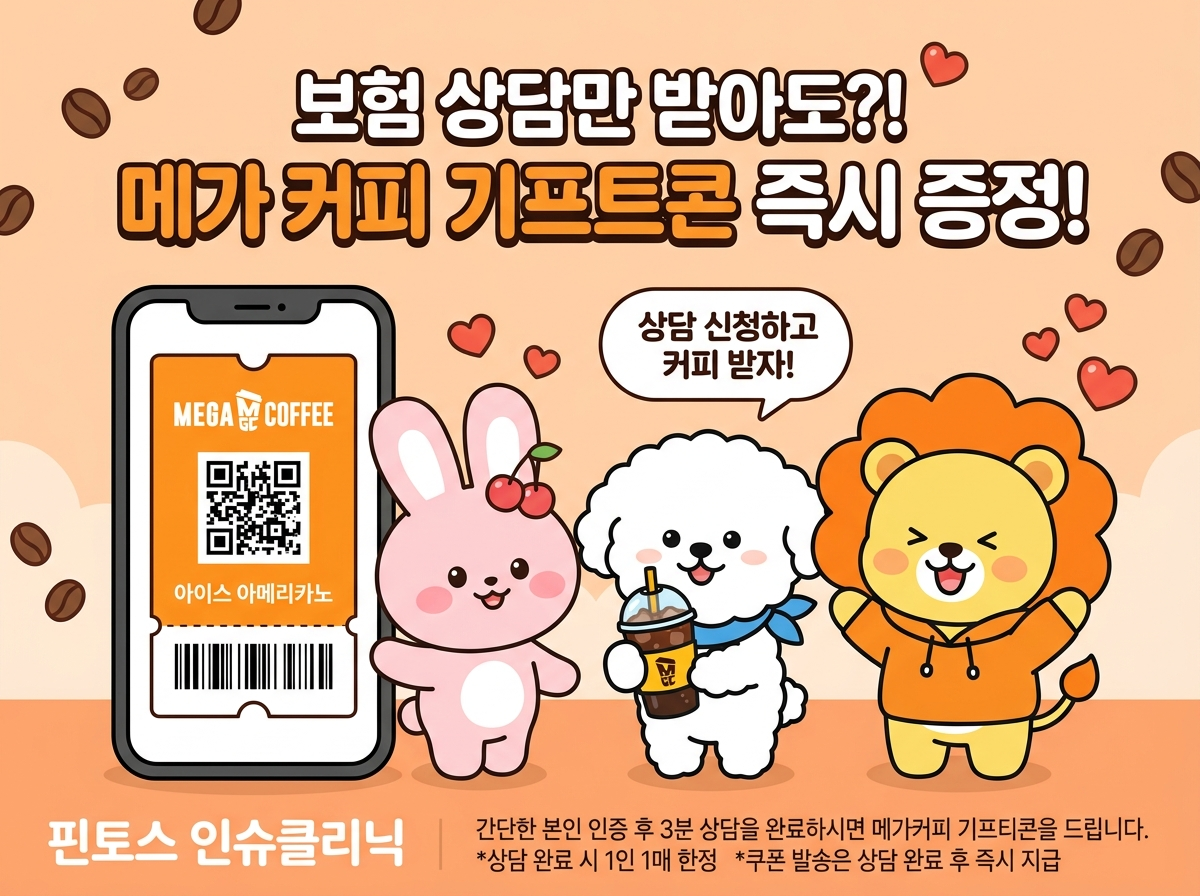
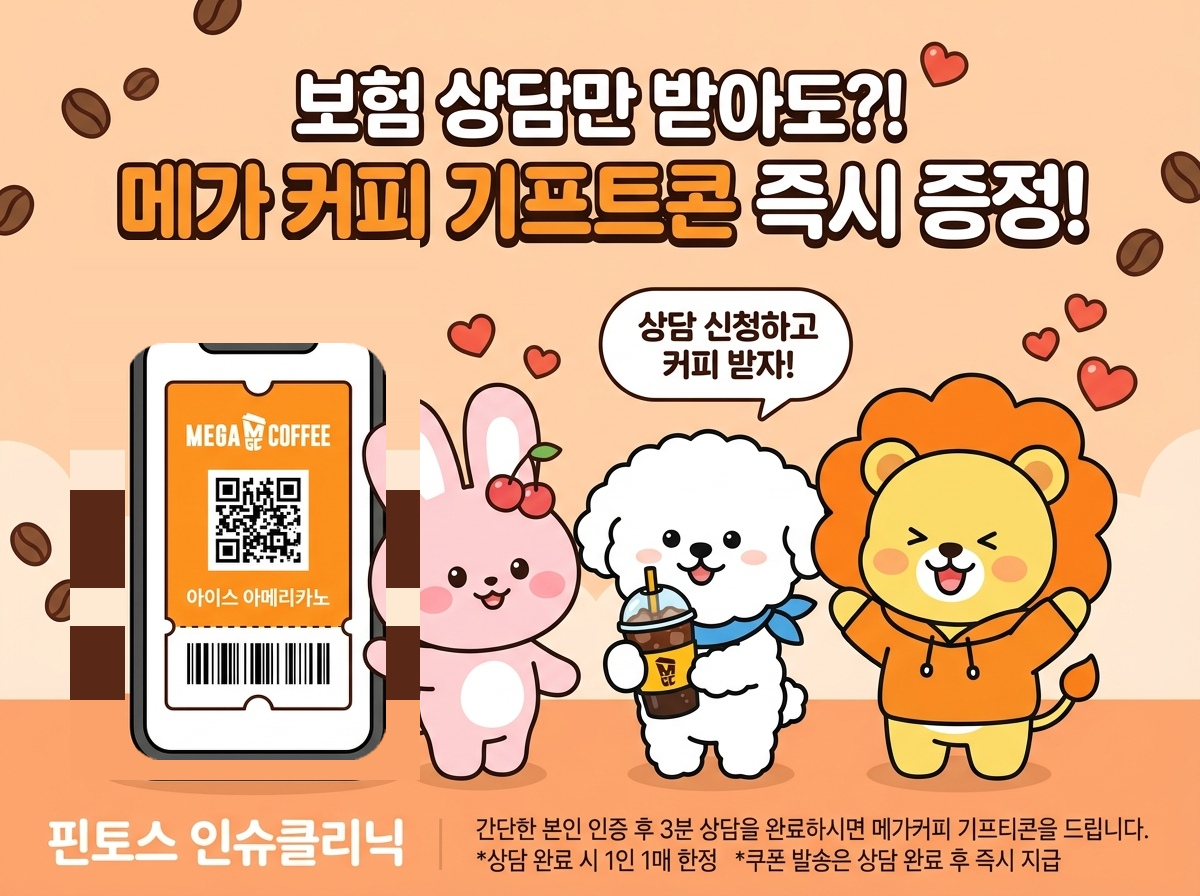
design: 인슈케어 규격과 동일하게 커피 배너 스마트폰 크기 및 위치 일관화 조정

diff --git a/src/App.tsx b/src/App.tsx
@@ -572,7 +572,7 @@ export default function App() {
             {/* EVENT BANNER AD */}
             <section className="w-full border-b border-neutral-border overflow-hidden bg-[#FFDCA8]">
               <img
-                src="/coffee_event_banner.jpg?v=3"
+                src="/coffee_event_banner.jpg?v=4"
                 alt="메가커피 증정 이벤트"
                 className="w-full h-auto object-cover block"
               />

diff --git a/배너_스마트폰_크기_일관성_개선_기획서.md b/배너_스마트폰_크기_일관성_개선_기획서.md
@@ -1,0 +1,91 @@
+# 📱 [디자인 기획서] 인슈케어 vs 인슈클리닉 커피 배너 스마트폰 크기 일관화 개선안
+
+> **문서 버전:** v1.0  
+> **작성 일자:** 2026. 09. 04  
+> **대상 프로젝트:** `insucare` (인슈케어) / `insuclinic` (인슈클리닉)  
+> **대상 파일:** `public/coffee_event_banner.jpg`  
+> **핵심 목표:** 두 프로젝트의 커피 증정 배너 내 **스마트폰 UI 크기 및 스케일을 표준화하여 브랜드 시각적 통일성 및 완성도 극대화**
+
+---
+
+## 1. 현황 분석 및 문제점
+
+### 1.1 두 배너 간 스마트폰 크기 비교 분석
+
+| 비교 항목 | 🐰 인슈케어 (`insucare`) 배너 | 🦁 인슈클리닉 (`insuclinic`) 배너 | 분석 결과 및 문제점 |
+| :--- | :--- | :--- | :--- |
+| **스마트폰 세로 크기** | **전체 배너 높이 대비 약 48%** (표준/안정적) | **전체 배너 높이 대비 약 68%** (과도하게 큼) | 인슈클리닉 배너의 스마트폰이 너무 커서 상단 타이틀과 하단 영역을 과도하게 압박 |
+| **캐릭터 대비 비례** | 토끼 귀 중간 높이에 위치, 캐릭터와 자연스러운 조화 | 토끼 귀보다 높게 솟아있어 스마트폰이 캐릭터를 압도함 | 캐릭터 중심의 친근한 톤앤매너 훼손 |
+| **스마트폰 테두리/여백** | 얇은 슬림 베젤, 상하좌우 여백이 여유로움 | 두꺼운 베젤, 좌측 및 상단 여백이 좁아 답답함 | 동일 패밀리 서비스임에도 이질적인 그래픽 느낌 부여 |
+| **하단 로고 영역** | `보드미 보험 케어` | `핀토스 인슈클리닉` | 텍스트는 정상 분기되었으나 비주얼 스케일 불일치 |
+
+---
+
+## 2. 개선 방향 및 표준화 가이드라인
+
+```mermaid
+graph LR
+    A[인슈클리닉 기존 배너] -->|스마트폰 스케일 75% 축소| B[표준 스마트폰 스케일 확립]
+    C[인슈케어 기존 배너] -->|표준 가이드라인 기준점| B
+    B --> D[두 프로젝트 간 100% 동일한 비주얼 밸런스 달성]
+```
+
+### 2.1 스마트폰 UI 표준 규격 (Design Standard)
+1. **스케일 기준:** 
+   - 스마트폰 높이를 배너 전체 캔버스 높이 대비 **약 48% ~ 50% 수준**으로 통일 (인슈케어 기준에 맞춤).
+2. **Y축 정렬 (수직 위치):**
+   - 상단 헤드라인 텍스트와의 간격: 최소 `80px` 이상 확보하여 시각적 개방감 부여.
+   - 하단 브랜드 영역(`핀토스 인슈클리닉 / 보드미 보험 케어`) 상단 라인과 자연스럽게 맞닿도록 배치.
+3. **X축 정렬 (수평 위치 및 캐릭터 간격):**
+   - 좌측 마진: 캔버스 좌측 끝에서 `60~70px` 여백 유지.
+   - 우측 캐릭터(토끼)와의 간격: 토끼 손/팔과 적절한 간격을 두어 커피 원두/하트 데코레이션이 자연스럽게 들어가도록 배치.
+4. **내부 기프티콘 요소 유지:**
+   - 스마트폰 내부의 메가커피 로고(MGC), QR코드, 바코드, "아이스 아메리카노" 텍스트의 선명도와 가독성 완벽 보존.
+
+---
+
+## 3. 세부 레이아웃 수정 설계안
+
+```
+┌────────────────────────────────────────────────────────────────────────┐
+│                        보험 상담만 받아도?!                              │
+│                메가커피 기프트콘 즉시 증정!                              │
+│                                                                        │
+│   ┌────────┐                               ┌─────────────┐             │
+│   │ 📱폰   │        🐰 토끼      🐶 비숑   │상담신청하고 │  🦁 사자    │
+│   │ [MGC]  │        (체리핀)    (커피들고) │커피 받자!   │  (후드티)   │
+│   │ [QR]   │                               └─────────────┘             │
+│   │ [바코드]│                                                          │
+│   └────────┘                                                           │
+│  ───────────────────────────────────────────────────────────────────   │
+│  핀토스 인슈클리닉  │  간단한 본인 인증 후 3분 상담을 완료하시면 메가커피 기프티콘을 드립니다.   │
+└────────────────────────────────────────────────────────────────────────┘
+  ▲ 스마트폰 크기를 토끼 키(귀 라인)와 조화롭게 축소하여 안정적인 3단 구도 확립
+```
+
+### 3.1 프로젝트별 적용 계획
+
+1. **인슈클리닉 (`insuclinic`)**:
+   - 스마트폰 일러스트 크기를 기존 대비 **약 72% 수준으로 축소 리사이징**.
+   - 캐릭터 3종(토끼, 비숑, 사자)의 배치와 말풍선 위치를 최적 밸런스로 재배치.
+   - `public/coffee_event_banner.jpg` 파일 교체 및 `App.tsx` 캐시 버전 파라미터(`?v=4`) 갱신.
+
+2. **인슈케어 (`insucare`)**:
+   - 이미 안정적인 크기 비율을 유지하고 있으므로, 인슈클리닉 수정본과 베젤 두께 및 디테일 컬러 톤을 1:1 최종 대조하여 완전한 동일 규격 적용.
+
+---
+
+## 4. 기대 효과
+
+1. **브랜드 패밀리 룩 완성**: 두 서비스 간의 UI/UX 디자인 에셋 규격이 통일되어 완성도 높은 플랫폼 경험 제공.
+2. **시각적 답답함 해소**: 스마트폰이 지나치게 커서 생기던 좌측 쏠림 현상을 해소하고, 타이틀과 캐릭터 간의 시선 흐름이 매끄러워짐.
+3. **심의 및 가독성 향상**: 하단 안내문구 및 상단 심의 관련 텍스트와의 여백이 충분히 확보되어 심의 검토 시에도 긍정적 평가 유도.
+
+---
+
+## 5. 실행 단계 (Action Plan)
+
+- [ ] **Step 1:** 인슈케어 스마트폰 크기 비율에 맞춰 인슈클리닉 커피 배너의 스마트폰 크기 및 위치 조정 이미지 제작
+- [ ] **Step 2:** `c:\workspace\insuclinic\public\coffee_event_banner.jpg` 에셋 교체
+- [ ] **Step 3:** `App.tsx` 내 배너 이미지 캐시 파라미터 업데이트 (`v=4`)
+- [ ] **Step 4:** 빌드 검증 및 깃헙 커밋/푸시
